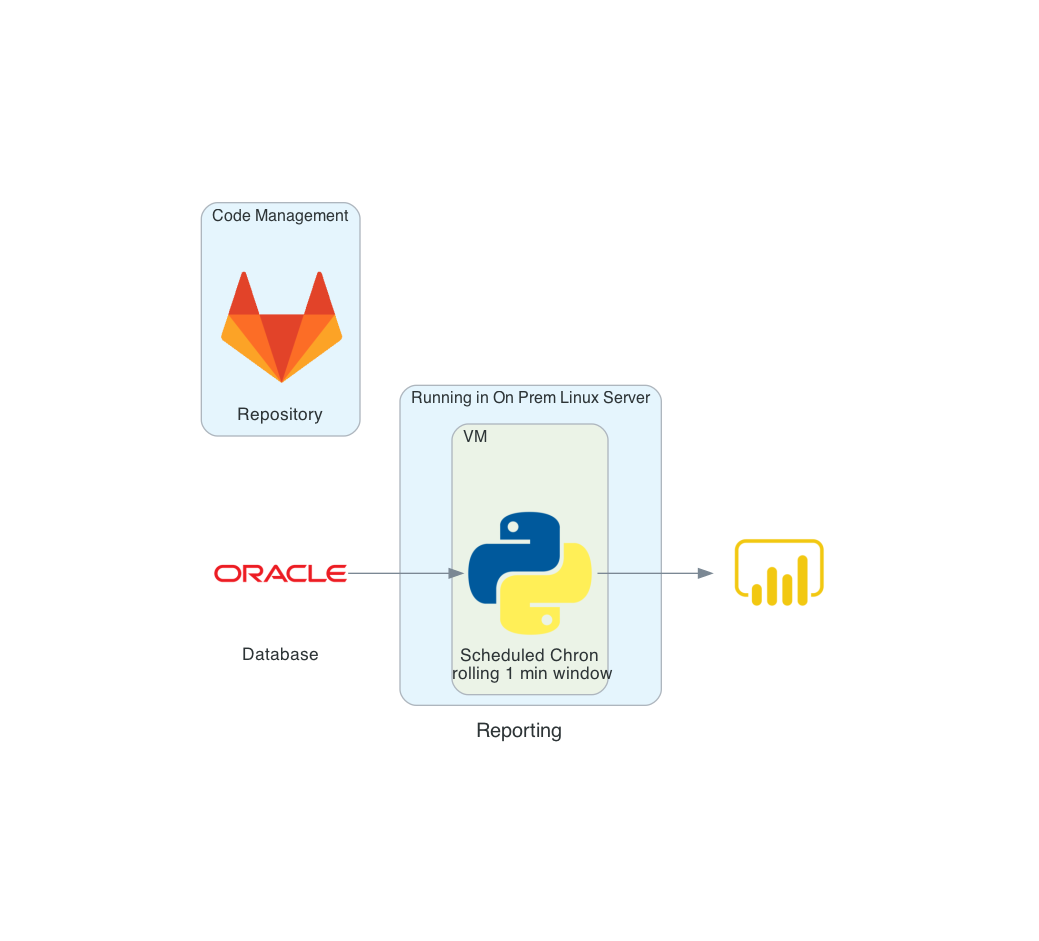
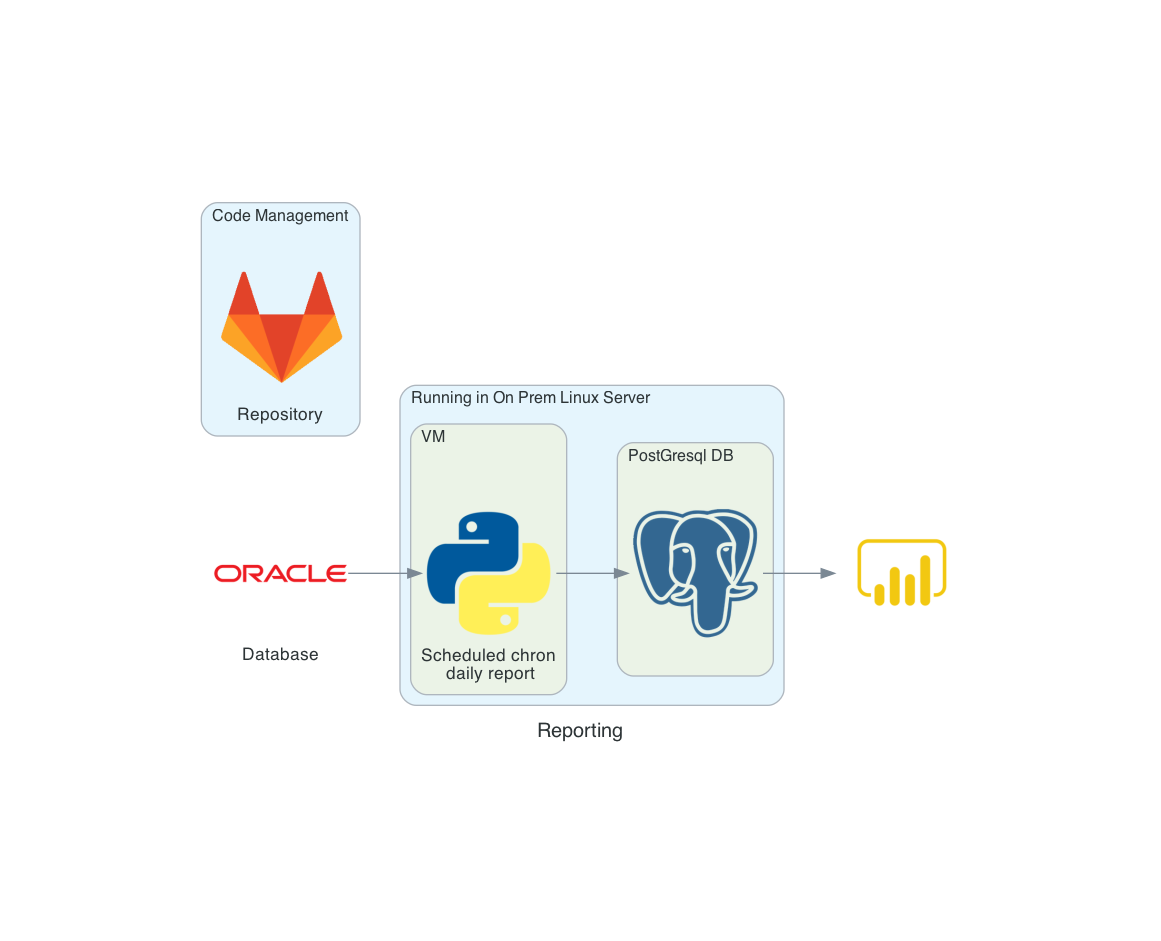
Updates to reporting diagram and work experience page

Changed region(s): [[0.154, 0.2157, 0.8316, 0.7705], [0.462, 0.7705, 0.5544, 0.8013], [0.2156, 0.678, 0.308, 0.7088]]

diff --git a/pages/02_Work_Experience.py b/pages/02_Work_Experience.py
@@ -8,6 +8,7 @@ with open("style.css") as f:
 
 # photos used
 splunk_etl = Image.open('diagram_generation/splunk_etl.png')
+reports = Image.open('diagram_generation/reporting.png')
 
 st.sidebar.markdown("Accenture, AT&T, RiskLens")
 
@@ -24,8 +25,8 @@ st.markdown('''
 - Worked across several roles as a Data Engineer, Data Scientist, and Team Lead on an Operational Intelligence Platform
 - Click the tabs below to see different tools and architectures used for this work
 ''')
-tab1, tab2, tab3, tab4 = st.tabs(["Tools Used", "ETL Architecture",
-                                  "Data Science Architecture", "Reporting Architecture"])
+tab1, tab2, tab3 = st.tabs(
+    ["Tools Used", "ETL Architecture", "Reporting Architecture"])
 
 with tab1:
     st.markdown('''
@@ -36,3 +37,7 @@ with tab1:
 with tab2:
     st.header("Example of one ETL process with log records from Splunk")
     st.image(splunk_etl, width=1000)
+
+with tab3:
+    st.header("Example Daily Report that would run")
+    st.image(reports, width=1000)

diff --git a/diagram_generation/reporting_C.py b/diagram_generation/reporting_C.py
@@ -13,6 +13,7 @@ from diagrams.onprem.vcs import Gitlab
 from diagrams.onprem.analytics import Hadoop
 from diagrams.onprem.client import Client
 from diagrams.onprem.database import Oracle
+from diagrams.onprem.database import Postgresql
 
 
 with Diagram("Reporting", show=False):
@@ -26,6 +27,8 @@ with Diagram("Reporting", show=False):
     with Cluster("Running in On Prem Linux Server"):
         with Cluster("VM"):
             python = Python(
-                "Scheduled Chron\n rolling 1 min window")
+                "Scheduled chron\n daily report")
+        with Cluster("PostGresql DB"):
+            postg = Postgresql()
 
-    oracle >> python >> powerbi
+    oracle >> python >> postg >> powerbi
